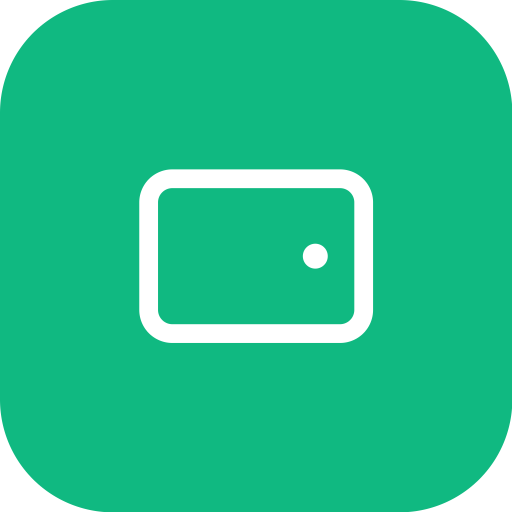
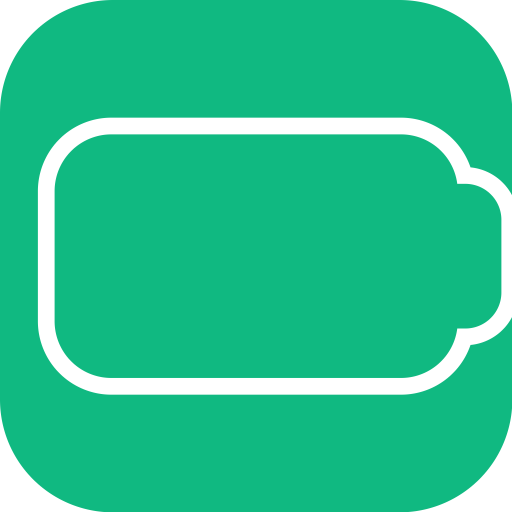
Updates

Changed region(s): [[0.0625, 0.2188, 1.0, 0.7812], [0.25, 0.3125, 0.75, 0.6875], [0.5938, 0.4688, 0.6562, 0.5312]]

diff --git a/assets/index-CmUBwkuq.css b/assets/index-CmUBwkuq.css
@@ -1,0 +1,2 @@
+/*! tailwindcss v4.3.3 | MIT License | https://tailwindcss.com */
+@layer properties{@supports (((-webkit-hyphens:none)) and (not (margin-trim:inline))) or ((-moz-orient:inline) and (not (color:rgb(from red r g b)))){*,:before,:after,::backdrop{--tw-rotate-x:initial;--tw-rotate-y:initial;--tw-rotate-z:initial;--tw-skew-x:initial;--tw-skew-y:initial;--tw-space-y-reverse:0;--tw-border-style:solid;--tw-gradient-position:initial;--tw-gradient-from:#0000;--tw-gradient-via:#0000;--tw-gradient-to:#0000;--tw-gradient-stops:initial;--tw-gradient-via-stops:initial;--tw-gradient-from-position:0%;--tw-gradient-via-position:50%;--tw-gradient-to-position:100%;--tw-font-weight:initial;--tw-shadow:0 0 #0000;--tw-shadow-color:initial;--tw-shadow-alpha:100%;--tw-inset-shadow:0 0 #0000;--tw-inset-shadow-color:initial;--tw-inset-shadow-alpha:100%;--tw-ring-color:initial;--tw-ring-shadow:0 0 #0000;--tw-inset-ring-color:initial;--tw-inset-ring-shadow:0 0 #0000;--tw-ring-inset:initial;--tw-ring-offset-width:0px;--tw-ring-offset-color:#fff;--tw-ring-offset-shadow:0 0 #0000}}}@layer theme{:root,:host{--font-sans:-apple-system, BlinkMacSystemFont, "Segoe UI", Roboto, "Helvetica Neue", "Noto Sans", Arial, sans-serif, "Apple Color Emoji", "Segoe UI Emoji", "Segoe UI Symbol", "Noto Color Emoji";--font-mono:ui-monospace, SFMono-Regular, Menlo, Monaco, Consolas, "Liberation Mono", "Courier New", monospace;--color-red-300:oklch(80.8% .114 19.571);--color-red-500:oklch(63.7% .237 25.331);--color-red-800:oklch(44.4% .177 26.899);--color-red-950:oklch(25.8% .092 26.042);--color-amber-400:oklch(82.8% .189 84.429);--color-emerald-300:oklch(84.5% .143 164.978);--color-emerald-400:oklch(76.5% .177 163.223);--color-emerald-500:oklch(69.6% .17 162.48);--color-emerald-600:oklch(59.6% .145 163.225);--color-emerald-700:oklch(50.8% .118 165.612);--color-emerald-800:oklch(43.2% .095 166.913);--color-emerald-900:oklch(37.8% .077 168.94);--color-emerald-950:oklch(26.2% .051 172.552);--color-teal-400:oklch(77.7% .152 181.912);--color-teal-500:oklch(70.4% .14 182.503);--color-slate-100:oklch(96.8% .007 247.896);--color-slate-300:oklch(86.9% .022 252.894);--color-slate-400:oklch(70.4% .04 256.788);--color-slate-500:oklch(55.4% .046 257.417);--color-slate-600:oklch(44.6% .043 257.281);--color-slate-700:oklch(37.2% .044 257.287);--color-slate-800:oklch(27.9% .041 260.031);--color-slate-900:oklch(20.8% .042 265.755);--color-slate-950:oklch(12.9% .042 264.695);--spacing:.25rem;--text-xs:.75rem;--text-xs--line-height:calc(1 / .75);--text-sm:.875rem;--text-sm--line-height:calc(1.25 / .875);--text-lg:1.125rem;--text-lg--line-height:calc(1.75 / 1.125);--text-xl:1.25rem;--text-xl--line-height:calc(1.75 / 1.25);--text-2xl:1.5rem;--text-2xl--line-height:calc(2 / 1.5);--font-weight-semibold:600;--font-weight-bold:700;--font-weight-extrabold:800;--font-weight-black:900;--radius-lg:.5rem;--radius-xl:.75rem;--radius-2xl:1rem;--animate-spin:spin 1s linear infinite;--default-font-family:var(--font-sans);--default-mono-font-family:var(--font-mono)}}@layer base{*,:after,:before,::backdrop{box-sizing:border-box;border:0 solid;margin:0;padding:0}::file-selector-button{box-sizing:border-box;border:0 solid;margin:0;padding:0}html,:host{-webkit-text-size-adjust:100%;tab-size:4;line-height:1.5;font-family:var(--default-font-family,-apple-system, BlinkMacSystemFont, "Segoe UI", Roboto, "Helvetica Neue", "Noto Sans", Arial, sans-serif, "Apple Color Emoji", "Segoe UI Emoji", "Segoe UI Symbol", "Noto Color Emoji");font-feature-settings:var(--default-font-feature-settings,normal);font-variation-settings:var(--default-font-variation-settings,normal);-webkit-tap-highlight-color:transparent}hr{height:0;color:inherit;border-top-width:1px}abbr:where([title]){-webkit-text-decoration:underline dotted;text-decoration:underline dotted}h1,h2,h3,h4,h5,h6{font-size:inherit;font-weight:inherit}a{color:inherit;-webkit-text-decoration:inherit;-webkit-text-decoration:inherit;-webkit-text-decoration:inherit;-webkit-text-decoration:inherit;text-decoration:inherit}b,strong{font-weight:bolder}code,kbd,samp,pre{font-family:var(--default-mono-font-family,ui-monospace, SFMono-Regular, Menlo, Monaco, Consolas, "Liberation Mono", "Courier New", monospace);font-feature-settings:var(--default-mono-font-feature-settings,normal);font-variation-settings:var(--default-mono-font-variation-settings,normal);font-size:1em}small{font-size:80%}sub,sup{vertical-align:baseline;font-size:75%;line-height:0;position:relative}sub{bottom:-.25em}sup{top:-.5em}table{text-indent:0;border-color:inherit;border-collapse:collapse}:-moz-focusring:where(:not(iframe)){outline:auto}progress{vertical-align:baseline}summary{display:list-item}ol,ul,menu{list-style:none}img,svg,video,canvas,audio,iframe,embed,object{vertical-align:middle;display:block}img,video{max-width:100%;height:auto}button,input,select,optgroup,textarea{font:inherit;font-feature-settings:inherit;font-variation-settings:inherit;letter-spacing:inherit;color:inherit;opacity:1;background-color:#0000;border-radius:0}::file-selector-button{font:inherit;font-feature-settings:inherit;font-variation-settings:inherit;letter-spacing:inherit;color:inherit;opacity:1;background-color:#0000;border-radius:0}:where(select:is([multiple],[size])) optgroup{font-weight:bolder}:where(select:is([multiple],[size])) optgroup option{padding-inline-start:20px}::file-selector-button{margin-inline-end:4px}::placeholder{opacity:1}@supports (not ((-webkit-appearance:-apple-pay-button))) or (contain-intrinsic-size:1px){::placeholder{color:currentColor}@supports (color:color-mix(in lab, red, red)){::placeholder{color:color-mix(in oklab, currentcolor 50%, transparent)}}}textarea{resize:vertical}::-webkit-search-decoration{-webkit-appearance:none}::-webkit-date-and-time-value{min-height:1lh;text-align:inherit}::-webkit-datetime-edit{display:inline-flex}::-webkit-datetime-edit-fields-wrapper{padding:0}::-webkit-datetime-edit{padding-block:0}::-webkit-datetime-edit-year-field{padding-block:0}::-webkit-datetime-edit-month-field{padding-block:0}::-webkit-datetime-edit-day-field{padding-block:0}::-webkit-datetime-edit-hour-field{padding-block:0}::-webkit-datetime-edit-minute-field{padding-block:0}::-webkit-datetime-edit-second-field{padding-block:0}::-webkit-datetime-edit-millisecond-field{padding-block:0}::-webkit-datetime-edit-meridiem-field{padding-block:0}::-webkit-calendar-picker-indicator{line-height:1}:-moz-ui-invalid{box-shadow:none}button,input:where([type=button],[type=reset],[type=submit]){appearance:button}::file-selector-button{appearance:button}::-webkit-inner-spin-button{height:auto}::-webkit-outer-spin-button{height:auto}[hidden]:where(:not([hidden=until-found])){display:none!important}}@layer components;@layer utilities{.mt-0\.5{margin-top:calc(var(--spacing) * .5)}.mt-6{margin-top:calc(var(--spacing) * 6)}.mt-10{margin-top:calc(var(--spacing) * 10)}.mb-1{margin-bottom:var(--spacing)}.mb-2{margin-bottom:calc(var(--spacing) * 2)}.mb-4{margin-bottom:calc(var(--spacing) * 4)}.mb-5{margin-bottom:calc(var(--spacing) * 5)}.mb-8{margin-bottom:calc(var(--spacing) * 8)}.-ml-1\.5{margin-left:calc(var(--spacing) * -1.5)}.ml-8{margin-left:calc(var(--spacing) * 8)}.block{display:block}.flex{display:flex}.grid{display:grid}.h-3{height:calc(var(--spacing) * 3)}.h-3\.5{height:calc(var(--spacing) * 3.5)}.h-4{height:calc(var(--spacing) * 4)}.h-5{height:calc(var(--spacing) * 5)}.min-h-screen{min-height:100vh}.w-3{width:calc(var(--spacing) * 3)}.w-3\.5{width:calc(var(--spacing) * 3.5)}.w-4{width:calc(var(--spacing) * 4)}.w-5{width:calc(var(--spacing) * 5)}.w-full{width:100%}.min-w-0{min-width:0}.flex-1{flex:1}.flex-shrink-0{flex-shrink:0}.transform{transform:var(--tw-rotate-x,) var(--tw-rotate-y,) var(--tw-rotate-z,) var(--tw-skew-x,) var(--tw-skew-y,)}.animate-spin{animation:var(--animate-spin)}.grid-cols-2{grid-template-columns:repeat(2,minmax(0,1fr))}.flex-col{flex-direction:column}.flex-wrap{flex-wrap:wrap}.items-center{align-items:center}.items-end{align-items:flex-end}.items-start{align-items:flex-start}.justify-between{justify-content:space-between}.justify-center{justify-content:center}.gap-1{gap:var(--spacing)}.gap-1\.5{gap:calc(var(--spacing) * 1.5)}.gap-2{gap:calc(var(--spacing) * 2)}.gap-2\.5{gap:calc(var(--spacing) * 2.5)}.gap-3{gap:calc(var(--spacing) * 3)}:where(.space-y-1\.5>:not(:last-child)){--tw-space-y-reverse:0;margin-block-start:calc(calc(var(--spacing) * 1.5) * var(--tw-space-y-reverse));margin-block-end:calc(calc(var(--spacing) * 1.5) * calc(1 - var(--tw-space-y-reverse)))}:where(.space-y-2>:not(:last-child)){--tw-space-y-reverse:0;margin-block-start:calc(calc(var(--spacing) * 2) * var(--tw-space-y-reverse));margin-block-end:calc(calc(var(--spacing) * 2) * calc(1 - var(--tw-space-y-reverse)))}:where(.space-y-3>:not(:last-child)){--tw-space-y-reverse:0;margin-block-start:calc(calc(var(--spacing) * 3) * var(--tw-space-y-reverse));margin-block-end:calc(calc(var(--spacing) * 3) * calc(1 - var(--tw-space-y-reverse)))}.truncate{text-overflow:ellipsis;white-space:nowrap;overflow:hidden}.rounded-2xl{border-radius:var(--radius-2xl)}.rounded-lg{border-radius:var(--radius-lg)}.rounded-xl{border-radius:var(--radius-xl)}.border{border-style:var(--tw-border-style);border-width:1px}.border-emerald-700{border-color:var(--color-emerald-700)}.border-emerald-800{border-color:var(--color-emerald-800)}.border-red-800{border-color:var(--color-red-800)}.border-slate-700{border-color:var(--color-slate-700)}.border-slate-800{border-color:var(--color-slate-800)}.bg-emerald-500{background-color:var(--color-emerald-500)}.bg-emerald-500\/15{background-color:#00bb7f26}@supports (color:color-mix(in lab, red, red)){.bg-emerald-500\/15{background-color:color-mix(in oklab, var(--color-emerald-500) 15%, transparent)}}.bg-emerald-950\/60{background-color:#002c2299}@supports (color:color-mix(in lab, red, red)){.bg-emerald-950\/60{background-color:color-mix(in oklab, var(--color-emerald-950) 60%, transparent)}}.bg-red-950\/60{background-color:#46080999}@supports (color:color-mix(in lab, red, red)){.bg-red-950\/60{background-color:color-mix(in oklab, var(--color-red-950) 60%, transparent)}}.bg-slate-800{background-color:var(--color-slate-800)}.bg-slate-900{background-color:var(--color-slate-900)}.bg-slate-950{background-color:var(--color-slate-950)}.bg-teal-500\/15{background-color:#00baa726}@supports (color:color-mix(in lab, red, red)){.bg-teal-500\/15{background-color:color-mix(in oklab, var(--color-teal-500) 15%, transparent)}}.bg-gradient-to-tr{--tw-gradient-position:to top right in oklab;background-image:linear-gradient(var(--tw-gradient-stops))}.from-emerald-500{--tw-gradient-from:var(--color-emerald-500);--tw-gradient-stops:var(--tw-gradient-via-stops,var(--tw-gradient-position), var(--tw-gradient-from) var(--tw-gradient-from-position), var(--tw-gradient-to) var(--tw-gradient-to-position))}.to-teal-400{--tw-gradient-to:var(--color-teal-400);--tw-gradient-stops:var(--tw-gradient-via-stops,var(--tw-gradient-position), var(--tw-gradient-from) var(--tw-gradient-from-position), var(--tw-gradient-to) var(--tw-gradient-to-position))}.p-1{padding:var(--spacing)}.p-1\.5{padding:calc(var(--spacing) * 1.5)}.p-2{padding:calc(var(--spacing) * 2)}.p-2\.5{padding:calc(var(--spacing) * 2.5)}.p-3{padding:calc(var(--spacing) * 3)}.p-3\.5{padding:calc(var(--spacing) * 3.5)}.p-4{padding:calc(var(--spacing) * 4)}.px-1{padding-inline:var(--spacing)}.px-2\.5{padding-inline:calc(var(--spacing) * 2.5)}.px-3{padding-inline:calc(var(--spacing) * 3)}.px-3\.5{padding-inline:calc(var(--spacing) * 3.5)}.px-4{padding-inline:calc(var(--spacing) * 4)}.py-2{padding-block:calc(var(--spacing) * 2)}.py-2\.5{padding-block:calc(var(--spacing) * 2.5)}.py-3{padding-block:calc(var(--spacing) * 3)}.pt-6{padding-top:calc(var(--spacing) * 6)}.pt-10{padding-top:calc(var(--spacing) * 10)}.pb-10{padding-bottom:calc(var(--spacing) * 10)}.text-center{text-align:center}.text-left{text-align:left}.font-mono{font-family:var(--font-mono)}.text-2xl{font-size:var(--text-2xl);line-height:var(--tw-leading,var(--text-2xl--line-height))}.text-lg{font-size:var(--text-lg);line-height:var(--tw-leading,var(--text-lg--line-height))}.text-sm{font-size:var(--text-sm);line-height:var(--tw-leading,var(--text-sm--line-height))}.text-xl{font-size:var(--text-xl);line-height:var(--tw-leading,var(--text-xl--line-height))}.text-xs{font-size:var(--text-xs);line-height:var(--tw-leading,var(--text-xs--line-height))}.text-\[10px\]{font-size:10px}.text-\[11px\]{font-size:11px}.font-black{--tw-font-weight:var(--font-weight-black);font-weight:var(--font-weight-black)}.font-bold{--tw-font-weight:var(--font-weight-bold);font-weight:var(--font-weight-bold)}.font-extrabold{--tw-font-weight:var(--font-weight-extrabold);font-weight:var(--font-weight-extrabold)}.font-semibold{--tw-font-weight:var(--font-weight-semibold);font-weight:var(--font-weight-semibold)}.text-amber-400{color:var(--color-amber-400)}.text-emerald-300{color:var(--color-emerald-300)}.text-emerald-400{color:var(--color-emerald-400)}.text-red-300{color:var(--color-red-300)}.text-slate-100{color:var(--color-slate-100)}.text-slate-300{color:var(--color-slate-300)}.text-slate-400{color:var(--color-slate-400)}.text-slate-500{color:var(--color-slate-500)}.text-slate-600{color:var(--color-slate-600)}.text-slate-950{color:var(--color-slate-950)}.text-teal-400{color:var(--color-teal-400)}.uppercase{text-transform:uppercase}.shadow-lg{--tw-shadow:0 10px 15px -3px var(--tw-shadow-color,#0000001a), 0 4px 6px -4px var(--tw-shadow-color,#0000001a);box-shadow:var(--tw-inset-shadow), var(--tw-inset-ring-shadow), var(--tw-ring-offset-shadow), var(--tw-ring-shadow), var(--tw-shadow)}.shadow-emerald-900\/30{--tw-shadow-color:#004e3b4d}@supports (color:color-mix(in lab, red, red)){.shadow-emerald-900\/30{--tw-shadow-color:color-mix(in oklab, color-mix(in oklab, var(--color-emerald-900) 30%, transparent) var(--tw-shadow-alpha), transparent)}}.active\:border-emerald-600:active{border-color:var(--color-emerald-600)}.active\:bg-emerald-400:active{background-color:var(--color-emerald-400)}.active\:text-emerald-400:active{color:var(--color-emerald-400)}.active\:text-red-500:active{color:var(--color-red-500)}.active\:text-slate-100:active{color:var(--color-slate-100)}.active\:text-slate-300:active{color:var(--color-slate-300)}.disabled\:opacity-40:disabled{opacity:.4}}html,body,#root{height:100%}body{overscroll-behavior-y:contain}@property --tw-rotate-x{syntax:"*";inherits:false}@property --tw-rotate-y{syntax:"*";inherits:false}@property --tw-rotate-z{syntax:"*";inherits:false}@property --tw-skew-x{syntax:"*";inherits:false}@property --tw-skew-y{syntax:"*";inherits:false}@property --tw-space-y-reverse{syntax:"*";inherits:false;initial-value:0}@property --tw-border-style{syntax:"*";inherits:false;initial-value:solid}@property --tw-gradient-position{syntax:"*";inherits:false}@property --tw-gradient-from{syntax:"<color>";inherits:false;initial-value:#0000}@property --tw-gradient-via{syntax:"<color>";inherits:false;initial-value:#0000}@property --tw-gradient-to{syntax:"<color>";inherits:false;initial-value:#0000}@property --tw-gradient-stops{syntax:"*";inherits:false}@property --tw-gradient-via-stops{syntax:"*";inherits:false}@property --tw-gradient-from-position{syntax:"<length-percentage>";inherits:false;initial-value:0%}@property --tw-gradient-via-position{syntax:"<length-percentage>";inherits:false;initial-value:50%}@property --tw-gradient-to-position{syntax:"<length-percentage>";inherits:false;initial-value:100%}@property --tw-font-weight{syntax:"*";inherits:false}@property --tw-shadow{syntax:"*";inherits:false;initial-value:0 0 #0000}@property --tw-shadow-color{syntax:"*";inherits:false}@property --tw-shadow-alpha{syntax:"<percentage>";inherits:false;initial-value:100%}@property --tw-inset-shadow{syntax:"*";inherits:false;initial-value:0 0 #0000}@property --tw-inset-shadow-color{syntax:"*";inherits:false}@property --tw-inset-shadow-alpha{syntax:"<percentage>";inherits:false;initial-value:100%}@property --tw-ring-color{syntax:"*";inherits:false}@property --tw-ring-shadow{syntax:"*";inherits:false;initial-value:0 0 #0000}@property --tw-inset-ring-color{syntax:"*";inherits:false}@property --tw-inset-ring-shadow{syntax:"*";inherits:false;initial-value:0 0 #0000}@property --tw-ring-inset{syntax:"*";inherits:false}@property --tw-ring-offset-width{syntax:"<length>";inherits:false;initial-value:0}@property --tw-ring-offset-color{syntax:"*";inherits:false;initial-value:#fff}@property --tw-ring-offset-shadow{syntax:"*";inherits:false;initial-value:0 0 #0000}@keyframes spin{to{transform:rotate(360deg)}}

diff --git a/index.html b/index.html
@@ -8,11 +8,12 @@
     <meta name="apple-mobile-web-app-status-bar-style" content="black-translucent" />
     <meta name="apple-mobile-web-app-title" content="PipiViajes" />
     <link rel="manifest" href="manifest.json" />
+    <link rel="icon" href="icons/icon.svg" type="image/svg+xml" />
     <link rel="icon" href="icons/icon_512.png" type="image/png" />
     <link rel="apple-touch-icon" href="icons/apple_touch_180.png" />
     <title>PipiViajes</title>
-    <script type="module" crossorigin src="./assets/index-EyRaDOsO.js"></script>
-    <link rel="stylesheet" crossorigin href="./assets/index-CQu2KpLa.css">
+    <script type="module" crossorigin src="./assets/index-CEXkGkOz.js"></script>
+    <link rel="stylesheet" crossorigin href="./assets/index-CmUBwkuq.css">
   </head>
   <body>
     <div id="root"></div>
